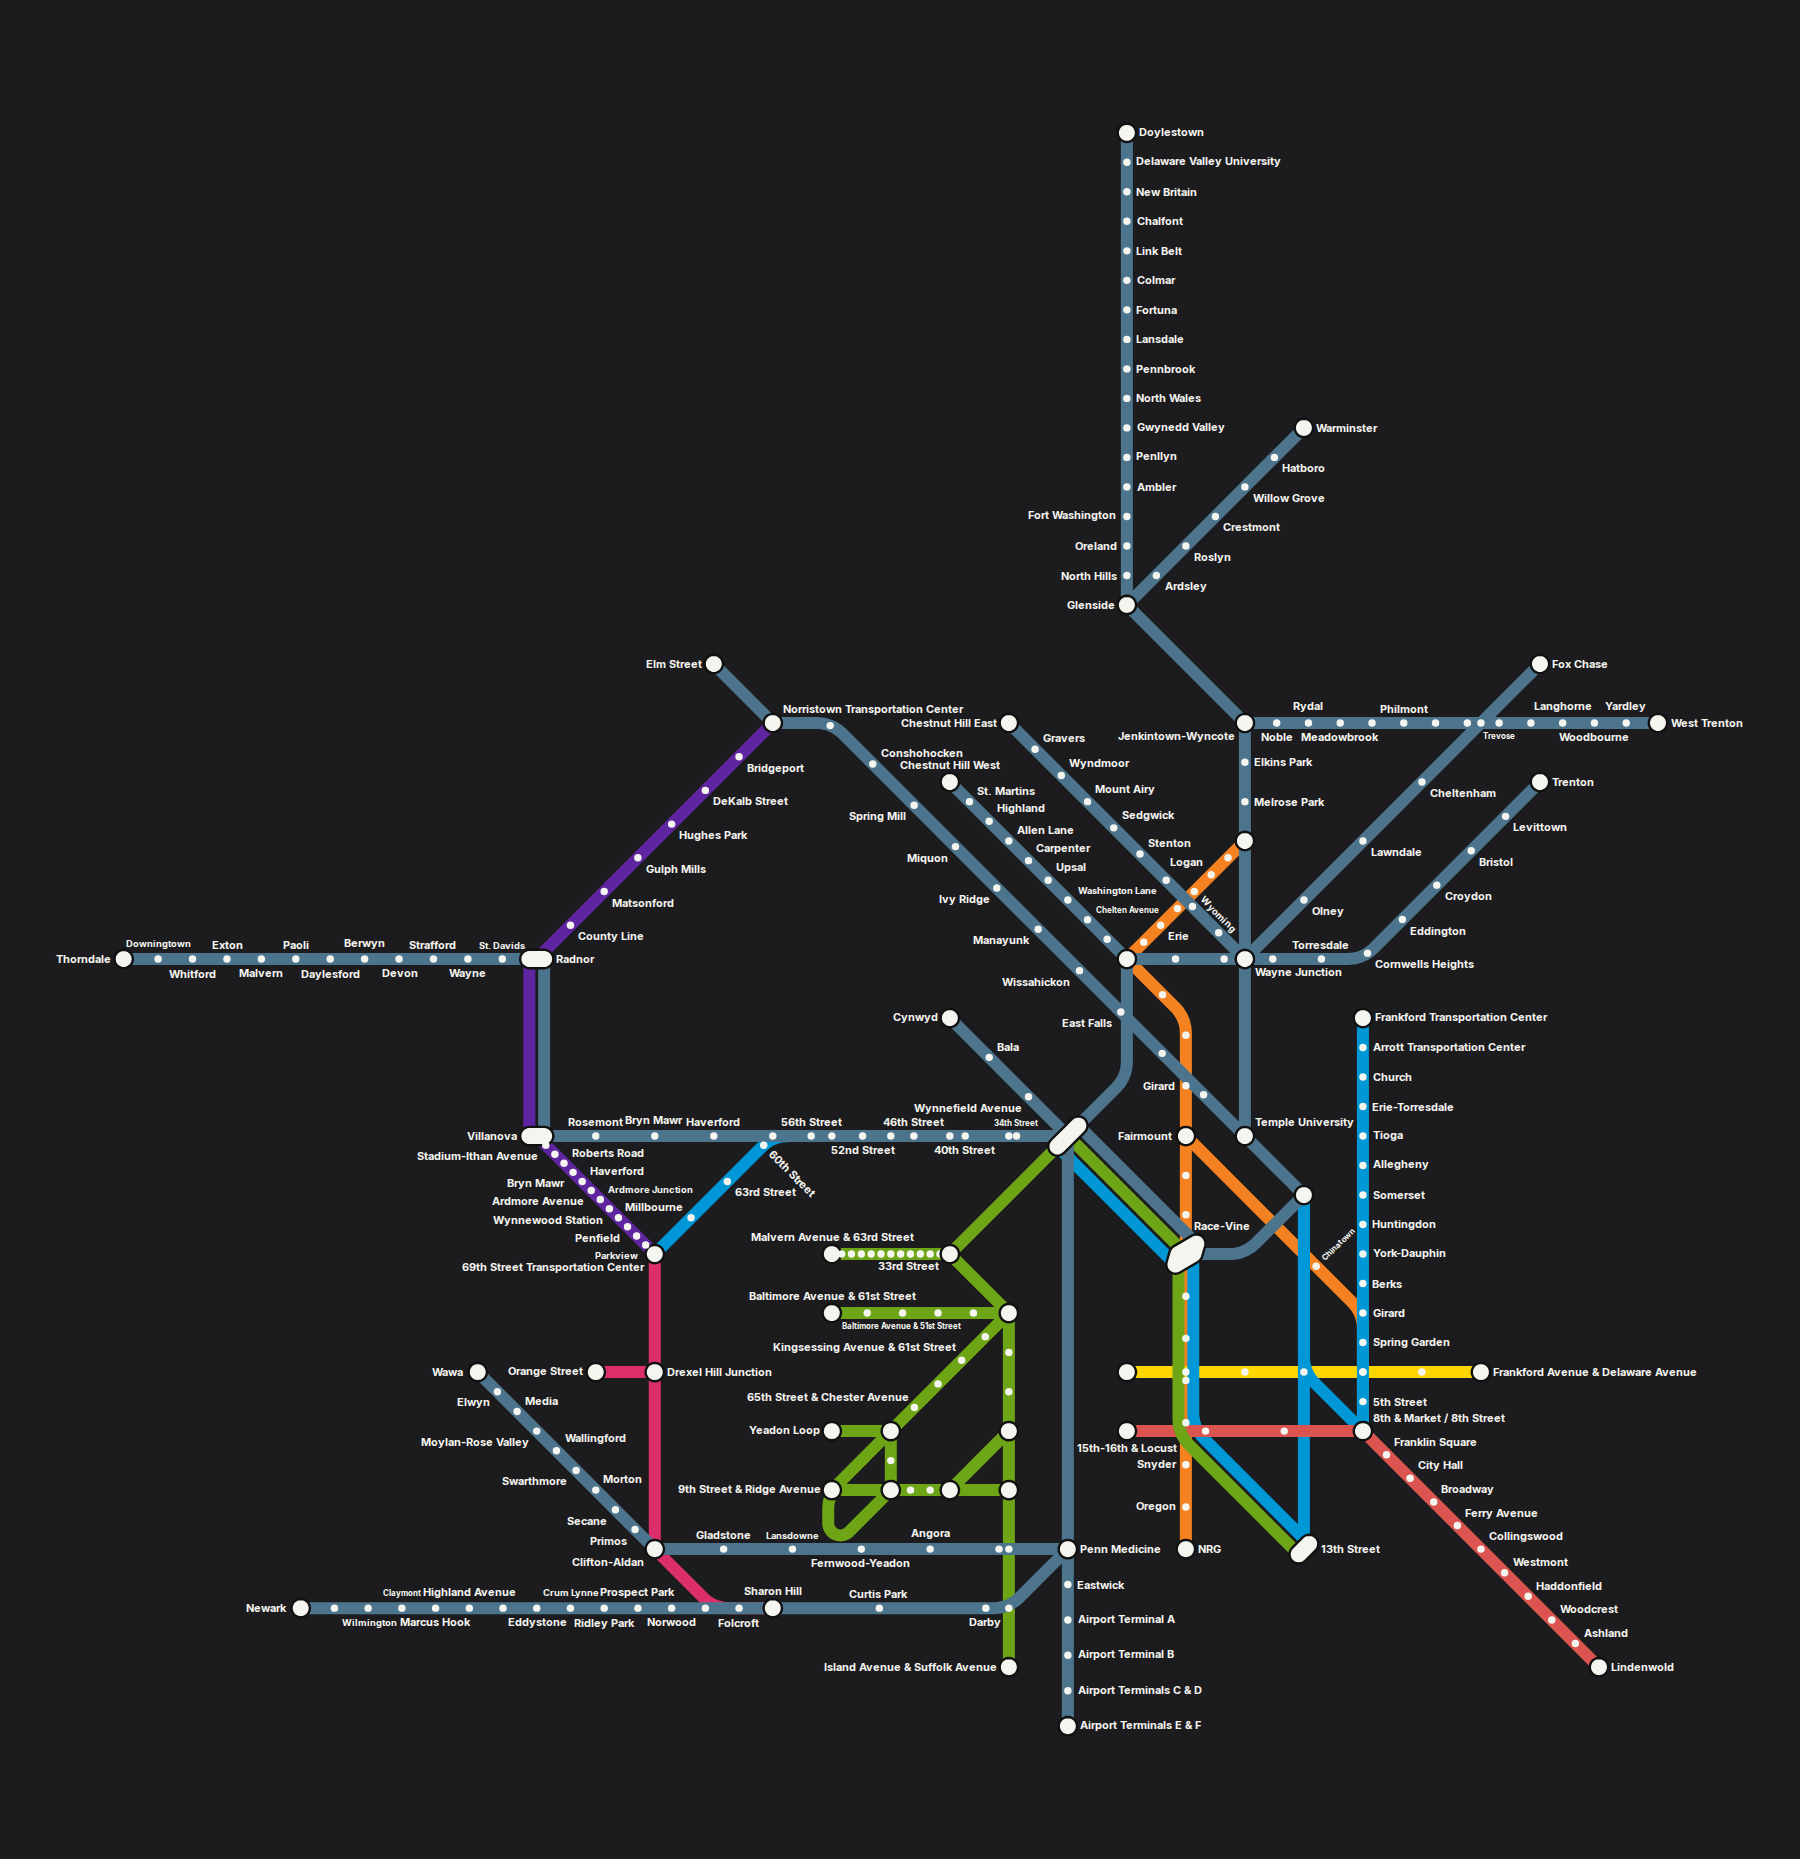
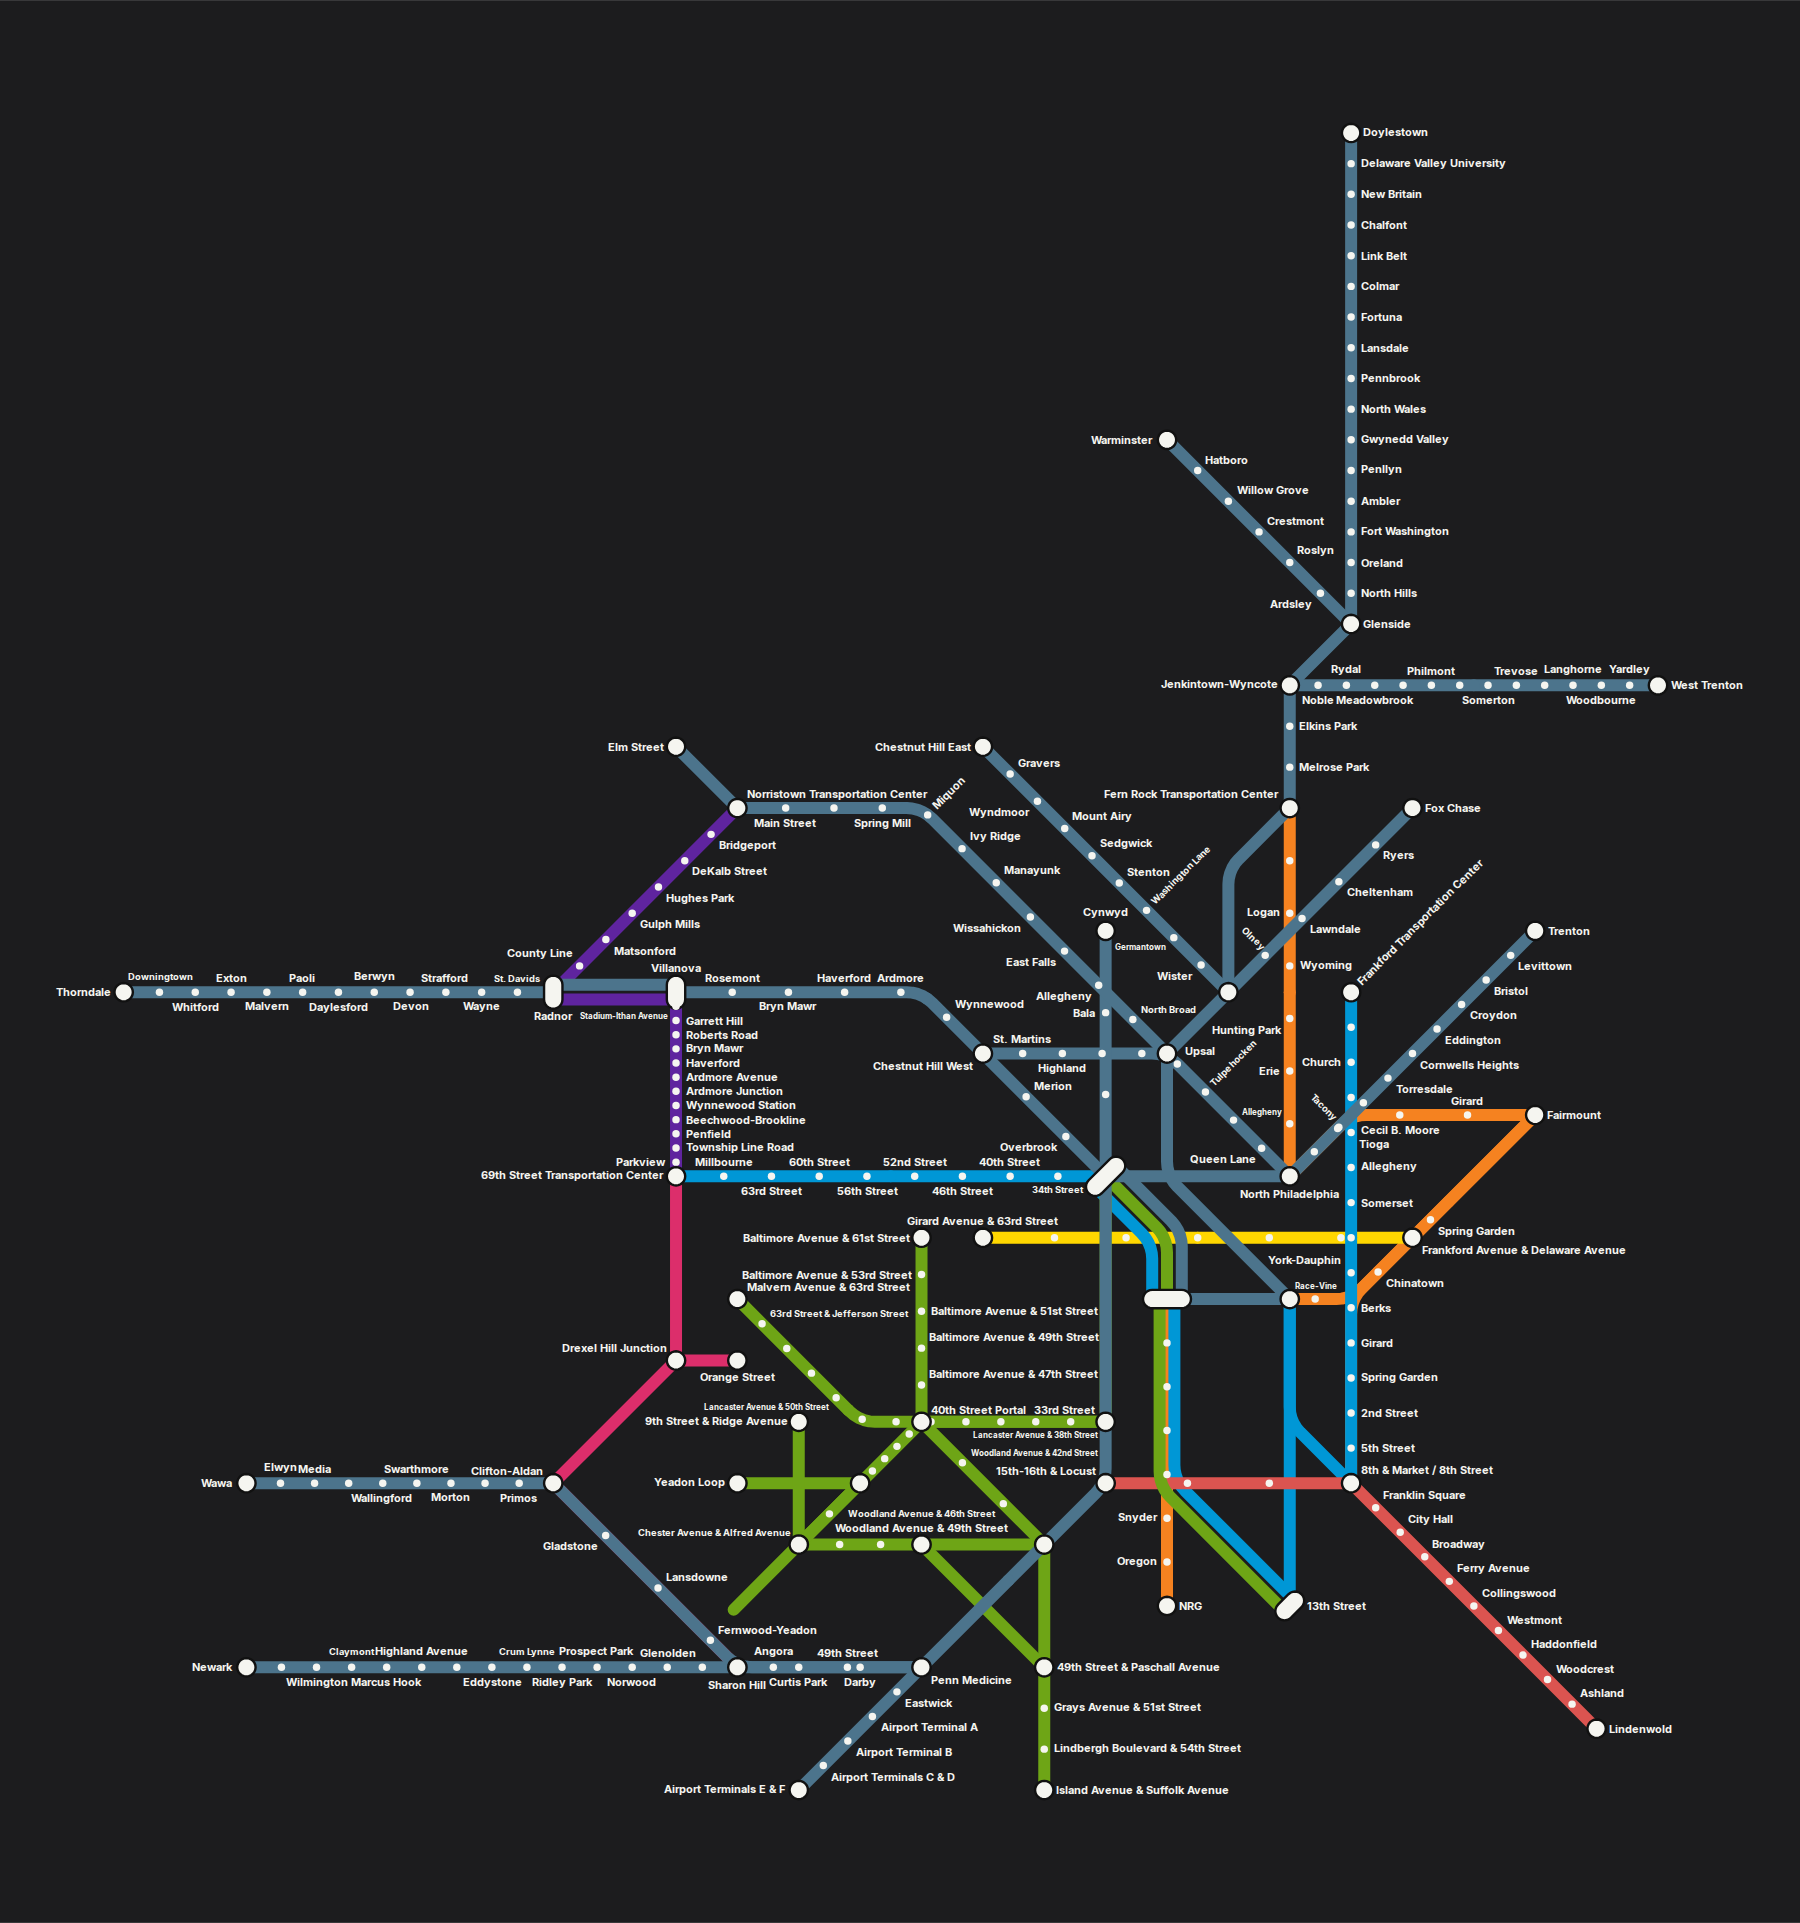
SEPTA overlay: schematic pins for Center City; README for overlays, outline base, label placement; city-agnostic screenshot script
Claude-Session: https://claude.ai/code/session_01MBsjaw49DwxCbAxCaJEcQU

Changed region(s): [[0.0622, 0.0624, 0.9333, 0.936], [0.0, 0.9984, 1.0, 1.0]]

diff --git a/packages/core/src/official/index.ts b/packages/core/src/official/index.ts
@@ -19,6 +19,8 @@ export interface OfficialOverlay {
   coords?: Record<string, [number, number]>;
   /** Stations the official map draws as one interchange although OSM names them separately; "Name@REF" pins a name to a line. */
   interchanges?: string[][];
+  /** Schematic geography: positions (lat, lon) that spread a dense downtown the way the official map does; applied last. */
+  pins?: Record<string, [number, number]>;
 }
 
 export interface OverlayReport { overlay: string; replaced: string[]; added: string[]; createdStations: string[]; missing: string[] }
@@ -111,6 +113,12 @@ export function applyOverlay(net: MetroNetwork, name: string, overlay: OfficialO
   for (const s of net.stations) s.lines = [];
   for (const l of net.lines) for (const sid of new Set(l.sequences.flat())) { const st = net.stations.find((s) => s.id === sid); if (st && !st.lines.includes(l.id)) st.lines.push(l.id); }
   net.stations = net.stations.filter((s) => s.lines.length > 0);
+  for (const [entry, [lat, lon]] of Object.entries(overlay.pins ?? {})) {
+    const [n, ref] = entry.split('@');
+    const lineIds = ref ? net.lines.filter((l) => l.ref === ref || l.members?.includes(ref)).map((l) => l.id) : undefined;
+    const st = net.stations.find((s) => (!lineIds || s.lines.some((id) => lineIds.includes(id))) && (normalizeName(s.name) === normalizeName(n) || s.name.split(' / ').some((part) => normalizeName(part) === normalizeName(n))));
+    if (st) { st.lat = lat; st.lon = lon; }
+  }
   if (!net.modes.includes('train') && overlay.lines.some((l) => l.mode === 'train')) net.modes.push('train');
   log?.(`Official overlay ${name}: replaced ${report.replaced.length} OSM lines with ${report.added.length} official lines, ${report.createdStations.length} stations added from the official list${report.missing.length ? `, ${report.missing.length} without coordinates: ${report.missing.join(', ')}` : ''}`);
   return report;

diff --git a/packages/core/src/official/septa.ts b/packages/core/src/official/septa.ts
@@ -16,6 +16,14 @@ export const SEPTA_REGIONAL_RAIL: OfficialOverlay = {
   coords: SEPTA_COORDS,
   // As on the SEPTA Metro map: City Hall / 15th Street / Suburban Station is one interchange; so is Jefferson / 11th Street.
   interchanges: [['Suburban', '15th Street@L', 'City Hall@B'], ['Jefferson', '11th Street@L'], ['30th Street', '30th Street@L']],
+  // Market Street's stations sit 300 m apart against a 70 km-wide network; the official map stretches Center City.
+  // These "schematic" positions keep the real order (30th → 15th → 13th → 11th → 8th → 5th → 2nd) with room for markers.
+  pins: {
+    '30th Street': [39.9555, -75.1900], 'Suburban': [39.9535, -75.1740], '13th Street': [39.9525, -75.1625], 'Jefferson': [39.9525, -75.1510],
+    '8th & Market': [39.9520, -75.1395], '5th Street': [39.9515, -75.1300], '2nd Street': [39.9510, -75.1210], 'Spring Garden@L': [39.9610, -75.1180],
+    '15th-16th & Locust': [39.9470, -75.1740], '12th-13th & Locust': [39.9465, -75.1625], '9th-10th & Locust': [39.9460, -75.1490], 'Franklin Square': [39.9535, -75.1330],
+    'Race-Vine': [39.9600, -75.1740], 'Walnut-Locust': [39.9460, -75.1780], 'Lombard-South': [39.9400, -75.1780],
+  },
   replaceModes: ['train'],
   lines: [
     { ref: 'AIR', name: 'Airport Line', color: RR, mode: 'train', stations: [...CC, 'Penn Medicine', 'Eastwick', 'Airport Terminal A', 'Airport Terminal B', 'Airport Terminals C & D', 'Airport Terminals E & F'] },

diff --git a/README.md b/README.md
@@ -27,9 +27,10 @@ Algorithms can only produce a map *in the style of* a transit diagram. To get th
 
 * **Auto**: for known cities the app fetches the Commons schematic (currently London: *London Underground, Overground, DLR and Elizabeth line map*, CC BY-SA). Add more in `KNOWN_MAP_SVGS`.
 * **My SVG**: upload any official SVG (or `--map-svg file.svg` on the CLI). Operators often publish their diagrams as SVG/PDF; a PDF can be converted with Inkscape.
-* **Generated layout**: the algorithmic fallback for cities without a drawing. *Auto* picks strict octilinear for small networks (≤ 6 lines — the way SEPTA, PRT and most US operators draw theirs, horizontals/verticals preferred, diagonals only for genuinely diagonal runs) and semi-geographic for big ones (Paris-style).
+* **Generated layout**: the algorithmic fallback for cities without a drawing. *Auto* picks strict octilinear for networks with up to 8 distinct line colours (the way SEPTA, PRT and most US operators draw theirs, horizontals/verticals preferred, diagonals only for genuinely diagonal runs) and semi-geographic for bigger ones (Paris-style). Services that share a colour (SEPTA's Regional Rail lines, B1/B2/B3, T1–T5) share one ribbon, count once at interchanges, and merge into one line (B, T, D) as on the operator's map.
+* **Official station lists** (`packages/core/src/official/`): where OpenStreetMap's route relations are incomplete, the operator's own map is the source of truth. SEPTA Regional Rail's 13 lines are bundled with their official station order, OSM coordinates, the interchanges SEPTA draws as one node (Suburban / 15th Street / City Hall, Jefferson / 11th Street) and "schematic" positions that stretch Center City the way the printed map does. Overlays apply automatically whenever the fetched network matches (`applyOfficialOverlays`).
 
-Philadelphia and Pittsburgh, checked against the operators' own files: SEPTA's 2025 *Metro & Frequent Bus* network map PDF contains only a raster image (no vector paths or text), and its vector PDFs are single-line strip maps; PRT's T map PDF has vector paths but all text converted to outlines, so station names cannot be read. Neither can be imported as geometry yet (a raster/outlined map would need OCR and line tracing). The bundled renders for those two therefore come from the octilinear generator. Any vector map with real text — e.g. an SVG exported by the operator's designers — imports directly; PDFs convert with `python -c "import pymupdf; ..."` (see `scripts/pdf2svg.py`) or Inkscape.
+Philadelphia (the default city: SEPTA Metro L/B/M/T/D/G, all 13 Regional Rail lines and PATCO) and Pittsburgh, checked against the operators' own files: SEPTA's 2025 *Metro & Frequent Bus* network map PDF contains only a raster image (no vector paths or text), and its vector PDFs are single-line strip maps; PRT's T map PDF has vector paths but all text converted to outlines, so station names cannot be read. Neither can be imported as geometry yet (a raster/outlined map would need OCR and line tracing). The bundled renders for those two therefore come from the octilinear generator. Any vector map with real text — e.g. an SVG exported by the operator's designers — imports directly; PDFs convert with `python -c "import pymupdf; ..."` (see `scripts/pdf2svg.py`) or Inkscape.
 
 | Source drawing (Commons) | MetroCAD import (all 267 stations, 11 lines matched) |
 |---|---|
@@ -62,11 +63,11 @@ The same geometry built as parts, in the app (`docs/screenshots/london/`): wall 
 
 Every part is a 2.5D extrusion generated with [manifold-3d](https://github.com/elalish/manifold) (robust CSG, guaranteed watertight meshes). Defaults are for a 0.4 mm nozzle in matte PLA.
 
-* **Base tiles** (4 mm) split to fit your bed. The top face carries **1.2 mm grooves** shaped exactly like the line ribbons, **pockets** for every station marker, and **pockets** for every label. Parts drop in and register themselves; nothing needs measuring.
+* **Base tiles** (4 mm) split to fit your bed. Two styles: rectangular tiles covering the wall area, or **outline** tiles (`--base outline`, "Outline tiles (least filament)" in the app) trimmed to the map's footprint plus an 8 mm margin (`--base-margin`), empty cells dropped — Philadelphia at 600 mm drops from 647 g to 171 g of PLA. The top face carries **1.2 mm grooves** shaped exactly like the line ribbons, **pockets** for every station marker, and **pockets** for every label. Parts drop in and register themselves; nothing needs measuring.
 * **Snap-fit**: every piece has small friction lugs on its foot (0.1 mm interference beyond the clearance), so line pieces, dots, rings, plugs and labels click into their grooves and pockets without glue. Only the tiles need to be fixed to the wall (a Command strip or two per tile).
 * **Line ribbons** (6 mm wide, 2 mm above the tile) are cut at interchanges — the joint is hidden under the interchange marker — and, only when a run is longer than the bed, at a straight section between stations. Pieces that cross a tile seam lock the tiles together. Where two lines cross, the pieces are **half-lapped** so both stay in one plane.
 * **Stations**: single-line stations are a white dot dropped through a hole in the ribbon into a pocket in the tile. Interchanges are a black ring plus a white plug (pill-shaped when several parallel lines meet).
-* **Labels**: a plate in the base colour with raised letters (0.8 mm) in the accent colour — printed as one object with one filament change at 1.0 mm, so it disappears into the tile and only the letters show. When the text would be too small to print well (< 4.5 mm, or on request) the tiles get shallow pockets sized for **label-maker tape** (6–24 mm) instead, and the bundle includes `labels-tape.csv` with every text to print.
+* **Labels**: a plate in the base colour with raised letters (0.8 mm) in the accent colour — printed as one object with one filament change at 1.0 mm, so it disappears into the tile and only the letters show. Letters are never smaller than 4 mm (the clean-print floor for a 0.4 mm nozzle). Every label — generated or taken from an official drawing — goes through the same collision placement: the drawing's own pose first (nudged a little if our fatter ribbons get in the way), then the eight positions around the marker and two 45° poses, then a smaller size; a label that still cannot fit is dropped and counted rather than overlapped. On request (`--label-mode tape`) the tiles get shallow pockets sized for **label-maker tape** (6–24 mm) instead, and the bundle includes `labels-tape.csv` with every text to print.
 * Clearance between mating parts is 0.15 mm (adjustable).
 
 Sizes scale with the wall-art width you ask for; text, line width and clearances stay in real millimetres so they always print.
@@ -133,13 +134,17 @@ Tests: `npm test` (layout determinism, manifold validity of every part kind, pac
 |---|---|
 | ![Paris](docs/screenshots/layout-paris.png) | ![London](docs/screenshots/layout-london.png) |
 
-| Philadelphia (SEPTA + PATCO) | Pittsburgh (PRT light rail) |
+| Philadelphia (SEPTA Metro + Regional Rail + PATCO) | Pittsburgh (PRT light rail) |
 |---|---|
 | ![Philadelphia](docs/screenshots/layout-philadelphia.png) | ![Pittsburgh](docs/screenshots/layout-pittsburgh.png) |
 
 | Front view | Print bed close-up |
 |---|---|
 | ![Front](docs/screenshots/app-3d-front.png) | ![Bed](docs/screenshots/app-print-bed-focus.png) |
+
+| Outline base (Philadelphia, 600 mm) |
+|---|
+| ![Outline base](docs/screenshots/base-outline-philadelphia.png) |
 
 ## License
 
